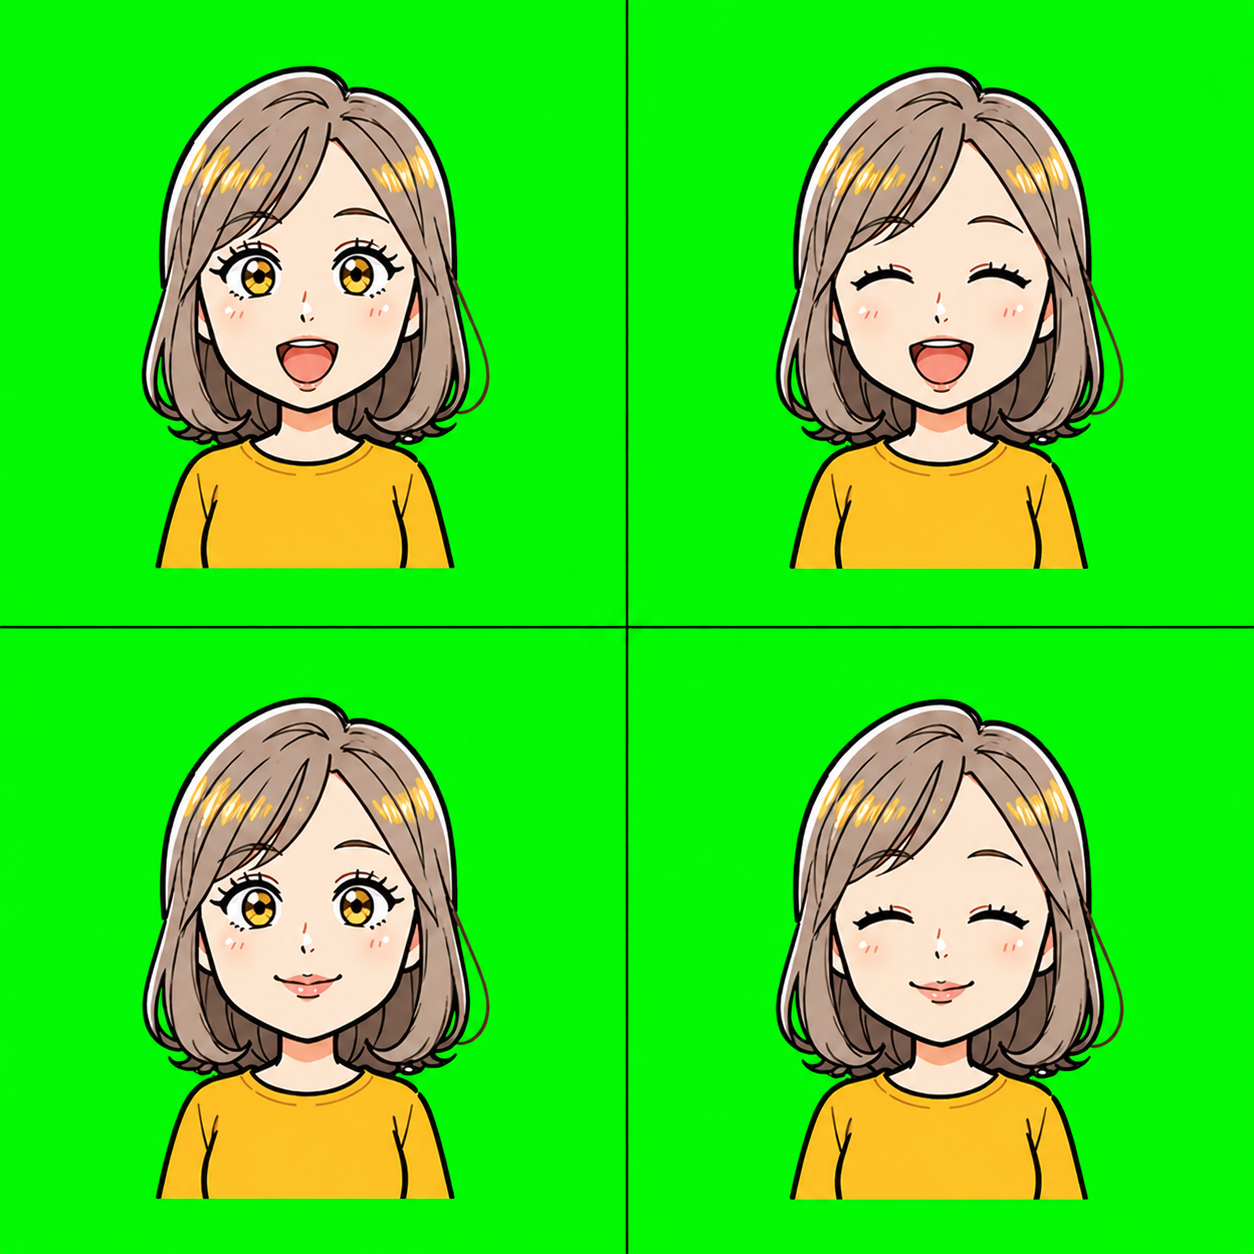
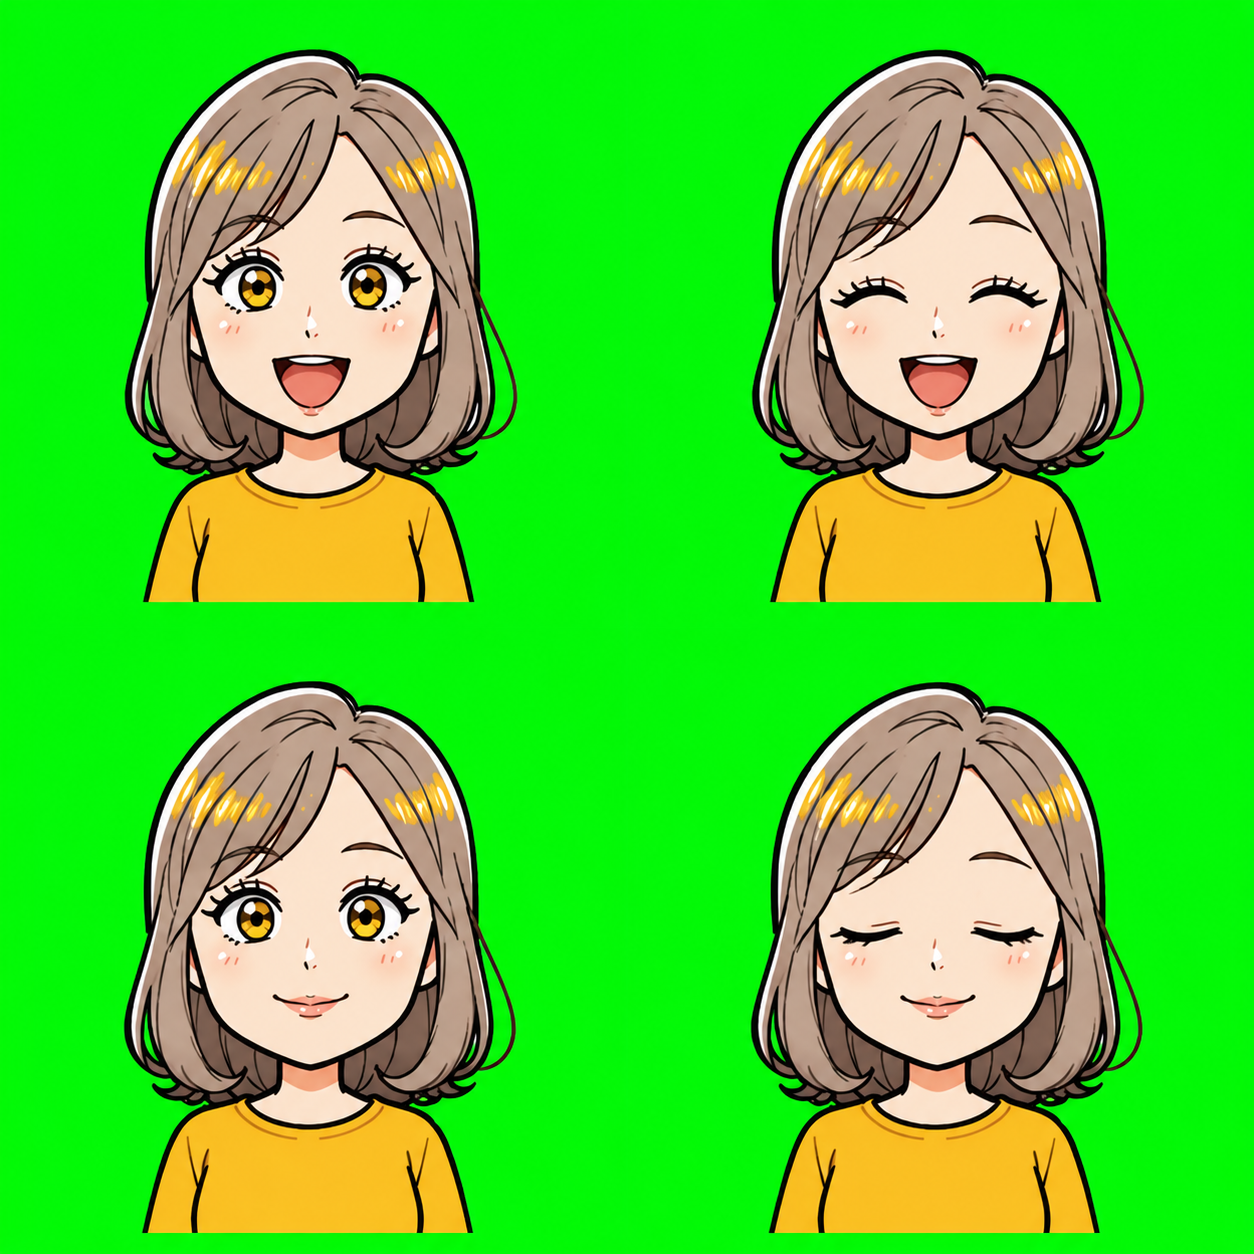
Add files via upload

Changed region(s): [[0.0, 0.0, 1.0, 1.0]]

diff --git a/app.js b/app.js
@@ -19,6 +19,12 @@ const cfg = {
   charSize:         300,
   chromaColor:      '#00ff00',  // 除去するキャラクター背景色
   chromaTolerance:  80,         // 色距離の許容範囲（0–200）
+  cropOffsets: [
+    { x: 0, y: 0 },
+    { x: 0, y: 0 },
+    { x: 0, y: 0 },
+    { x: 0, y: 0 },
+  ],
 };
 
 // ── 音声状態 ──────────────────────────────────────────────────
@@ -41,6 +47,8 @@ const anim = {
 };
 
 function randBlink() { return 3000 + Math.random() * 4000; }
+
+let refreshCropUI = () => {};
 
 // ── スプライト ────────────────────────────────────────────────
 const SPRITE_INSET = 3;  // 各フレーム四辺から除外するピクセル数（境界線除去）
@@ -76,10 +84,13 @@ function buildFrames() {
     [frameW, 0     ],
     [0,      frameH],
     [frameW, frameH],
-  ].map(([sx, sy]) => extractFrame(sx, sy, tr, tg, tb));
+  ].map(([sx, sy], i) => {
+    const { x: dx, y: dy } = cfg.cropOffsets[i];
+    return extractFrame(sx, sy, tr, tg, tb, dx, dy);
+  });
 }
 
-function extractFrame(sx, sy, tr, tg, tb) {
+function extractFrame(sx, sy, tr, tg, tb, dx = 0, dy = 0) {
   const inset = SPRITE_INSET;
   const srcW  = frameW - 2 * inset;
   const srcH  = frameH - 2 * inset;
@@ -87,7 +98,7 @@ function extractFrame(sx, sy, tr, tg, tb) {
   oc.width  = srcW;
   oc.height = srcH;
   const c = oc.getContext('2d');
-  c.drawImage(spriteImg, sx + inset, sy + inset, srcW, srcH, 0, 0, srcW, srcH);
+  c.drawImage(spriteImg, sx + inset + dx, sy + inset + dy, srcW, srcH, 0, 0, srcW, srcH);
   const id = c.getImageData(0, 0, srcW, srcH);
   removeChromaKey(id.data, tr, tg, tb);
   c.putImageData(id, 0, 0);
@@ -108,11 +119,26 @@ function removeChromaKey(data, tr, tg, tb) {
   }
 }
 
+function rebuildFrame(i) {
+  if (!spriteImg || !frames.length) return;
+  const [tr, tg, tb] = hexToRgb(cfg.chromaColor);
+  const origins = [[0, 0], [frameW, 0], [0, frameH], [frameW, frameH]];
+  const [sx, sy] = origins[i];
+  const { x: dx, y: dy } = cfg.cropOffsets[i];
+  frames[i] = extractFrame(sx, sy, tr, tg, tb, dx, dy);
+}
+
 // 許容範囲スライダー操作中の連続再処理を抑制
 let rebuildTimer = null;
 function scheduleRebuild() {
   clearTimeout(rebuildTimer);
   rebuildTimer = setTimeout(buildFrames, 250);
+}
+
+let saveCropTimer = null;
+function scheduleSaveCropOffsets() {
+  clearTimeout(saveCropTimer);
+  saveCropTimer = setTimeout(() => dbSet('cropOffsets', cfg.cropOffsets), 500);
 }
 
 // ── IndexedDB（画像の永続化） ─────────────────────────────────
@@ -326,6 +352,7 @@ function savePreset(slot) {
     bgColor:         cfg.bgColor,
     chromaColor:     cfg.chromaColor,
     chromaTolerance: cfg.chromaTolerance,
+    cropOffsets:     cfg.cropOffsets.map(o => ({ ...o })),
   }));
   updatePresetBadge(slot);
 }
@@ -354,6 +381,11 @@ function loadPreset(slot) {
   if (p.chromaColor) {
     cfg.chromaColor = p.chromaColor;
     document.getElementById('chroma-color').value = p.chromaColor;
+  }
+
+  if (p.cropOffsets) {
+    cfg.cropOffsets = p.cropOffsets.map(o => ({ ...o }));
+    refreshCropUI();
   }
 
   buildFrames();
@@ -400,8 +432,65 @@ function importPresets(file) {
   reader.readAsText(file);
 }
 
+// ── 切り取り位置調整 UI ────────────────────────────────────────
+function setupCropUI() {
+  let activeFr = 0;
+  const sel = document.getElementById('crop-frame-sel');
+  const slX = document.getElementById('sl-crop-x');
+  const nX  = document.getElementById('n-crop-x');
+  const slY = document.getElementById('sl-crop-y');
+  const nY  = document.getElementById('n-crop-y');
+
+  function syncUI() {
+    const o = cfg.cropOffsets[activeFr];
+    slX.value = nX.value = o.x;
+    slY.value = nY.value = o.y;
+  }
+
+  function applyX(v) {
+    v = Math.max(-200, Math.min(200, Math.round(v)));
+    cfg.cropOffsets[activeFr].x = v;
+    slX.value = nX.value = v;
+    rebuildFrame(activeFr);
+    scheduleSaveCropOffsets();
+  }
+
+  function applyY(v) {
+    v = Math.max(-200, Math.min(200, Math.round(v)));
+    cfg.cropOffsets[activeFr].y = v;
+    slY.value = nY.value = v;
+    rebuildFrame(activeFr);
+    scheduleSaveCropOffsets();
+  }
+
+  sel.addEventListener('change', () => { activeFr = +sel.value; syncUI(); });
+
+  slX.addEventListener('input',  () => applyX(+slX.value));
+  nX.addEventListener('change',  () => applyX(+nX.value));
+  nX.addEventListener('keydown', e => { if (e.key === 'Enter') applyX(+nX.value); });
+
+  slY.addEventListener('input',  () => applyY(+slY.value));
+  nY.addEventListener('change',  () => applyY(+nY.value));
+  nY.addEventListener('keydown', e => { if (e.key === 'Enter') applyY(+nY.value); });
+
+  document.getElementById('crop-x-mm').addEventListener('click', () => applyX(cfg.cropOffsets[activeFr].x - 10));
+  document.getElementById('crop-x-m' ).addEventListener('click', () => applyX(cfg.cropOffsets[activeFr].x -  1));
+  document.getElementById('crop-x-p' ).addEventListener('click', () => applyX(cfg.cropOffsets[activeFr].x +  1));
+  document.getElementById('crop-x-pp').addEventListener('click', () => applyX(cfg.cropOffsets[activeFr].x + 10));
+  document.getElementById('crop-y-mm').addEventListener('click', () => applyY(cfg.cropOffsets[activeFr].y - 10));
+  document.getElementById('crop-y-m' ).addEventListener('click', () => applyY(cfg.cropOffsets[activeFr].y -  1));
+  document.getElementById('crop-y-p' ).addEventListener('click', () => applyY(cfg.cropOffsets[activeFr].y +  1));
+  document.getElementById('crop-y-pp').addEventListener('click', () => applyY(cfg.cropOffsets[activeFr].y + 10));
+
+  document.getElementById('btn-crop-reset').addEventListener('click', () => { applyX(0); applyY(0); });
+
+  refreshCropUI = () => { activeFr = 0; sel.value = '0'; syncUI(); };
+}
+
 // ── UI 配線 ────────────────────────────────────────────────────
 function setupUI() {
+  setupCropUI();
+
   // マイク
   document.getElementById('btn-mic').addEventListener('click', () => {
     audio.active ? stopMic() : startMic();
@@ -518,6 +607,12 @@ if ('serviceWorker' in navigator) {
 async function boot() {
   initCanvas();
   setupUI();
+
+  const savedCropOffsets = await dbGet('cropOffsets');
+  if (savedCropOffsets) {
+    cfg.cropOffsets = savedCropOffsets;
+    refreshCropUI();
+  }
 
   try {
     // IndexedDB に保存済みの画像があれば復元

diff --git a/index.html b/index.html
@@ -49,6 +49,46 @@
         </section>
 
         <section class="sec">
+          <p class="sec-label">切り取り位置調整</p>
+          <div class="row">
+            <span class="lbl">フレーム</span>
+            <select id="crop-frame-sel" class="crop-frame-sel">
+              <option value="0">口あき / 目あき</option>
+              <option value="1">口あき / 目とじ</option>
+              <option value="2">口とじ / 目あき</option>
+              <option value="3">口とじ / 目とじ</option>
+            </select>
+          </div>
+          <div class="row">
+            <span class="lbl-xs">X</span>
+            <input type="range" id="sl-crop-x" min="-200" max="200" value="0" step="1">
+            <input type="number" id="n-crop-x" class="num-input-xs" min="-200" max="200" value="0">
+            <span class="unit">px</span>
+          </div>
+          <div class="adj-row">
+            <button class="adj-btn" id="crop-x-mm">◀◀</button>
+            <button class="adj-btn" id="crop-x-m">◀</button>
+            <span class="adj-spacer"></span>
+            <button class="adj-btn" id="crop-x-p">▶</button>
+            <button class="adj-btn" id="crop-x-pp">▶▶</button>
+          </div>
+          <div class="row">
+            <span class="lbl-xs">Y</span>
+            <input type="range" id="sl-crop-y" min="-200" max="200" value="0" step="1">
+            <input type="number" id="n-crop-y" class="num-input-xs" min="-200" max="200" value="0">
+            <span class="unit">px</span>
+          </div>
+          <div class="adj-row">
+            <button class="adj-btn" id="crop-y-mm">▲▲</button>
+            <button class="adj-btn" id="crop-y-m">▲</button>
+            <span class="adj-spacer"></span>
+            <button class="adj-btn" id="crop-y-p">▼</button>
+            <button class="adj-btn" id="crop-y-pp">▼▼</button>
+          </div>
+          <button id="btn-crop-reset" class="btn secondary sm w100">このフレームをリセット</button>
+        </section>
+
+        <section class="sec">
           <p class="sec-label">マイク</p>
           <button id="btn-mic" class="btn secondary w100">マイク開始</button>
           <div class="row">

diff --git a/style.css b/style.css
@@ -359,6 +359,71 @@ body.with-ui #checker-wrap {
 .exit-btn:hover  { opacity: 1; }
 .exit-btn:active { opacity: 1; transform: scale(.92); }
 
+/* ── Crop adjustment ──────────────────────────────────────── */
+.crop-frame-sel {
+  flex: 1;
+  padding: 4px 6px;
+  background: var(--border);
+  border: 1px solid rgba(255,255,255,.08);
+  border-radius: 4px;
+  color: var(--text);
+  font-size: 12px;
+  cursor: pointer;
+}
+.crop-frame-sel:focus { outline: 1.5px solid var(--accent); border-color: var(--accent); }
+
+.lbl-xs {
+  flex-shrink: 0;
+  width: 20px;
+  font-size: 12px;
+  color: var(--muted);
+}
+
+.num-input-xs {
+  flex-shrink: 0;
+  width: 42px;
+  padding: 3px 5px;
+  background: var(--border);
+  border: 1px solid rgba(255,255,255,.08);
+  border-radius: 4px;
+  color: var(--text);
+  font-size: 12px;
+  text-align: right;
+  -moz-appearance: textfield;
+}
+.num-input-xs::-webkit-inner-spin-button,
+.num-input-xs::-webkit-outer-spin-button { opacity: 1; }
+.num-input-xs:focus { outline: 1.5px solid var(--accent); border-color: var(--accent); }
+
+.adj-btn {
+  flex-shrink: 0;
+  width: 28px;
+  height: 24px;
+  padding: 0;
+  background: var(--border);
+  border: 1px solid rgba(255,255,255,.08);
+  border-radius: 4px;
+  color: var(--text);
+  font-size: 10px;
+  cursor: pointer;
+  display: inline-flex;
+  align-items: center;
+  justify-content: center;
+  -webkit-tap-highlight-color: transparent;
+  transition: filter .12s, transform .1s;
+  user-select: none;
+}
+.adj-btn:hover  { filter: brightness(1.3); }
+.adj-btn:active { transform: scale(.93); }
+
+.adj-row {
+  display: flex;
+  gap: 4px;
+  align-items: center;
+}
+
+.adj-spacer { flex: 1; }
+
 /* ── Mobile / iPhone ────────────────────────────────────── */
 @media (max-width: 580px) {
   body.with-ui {
